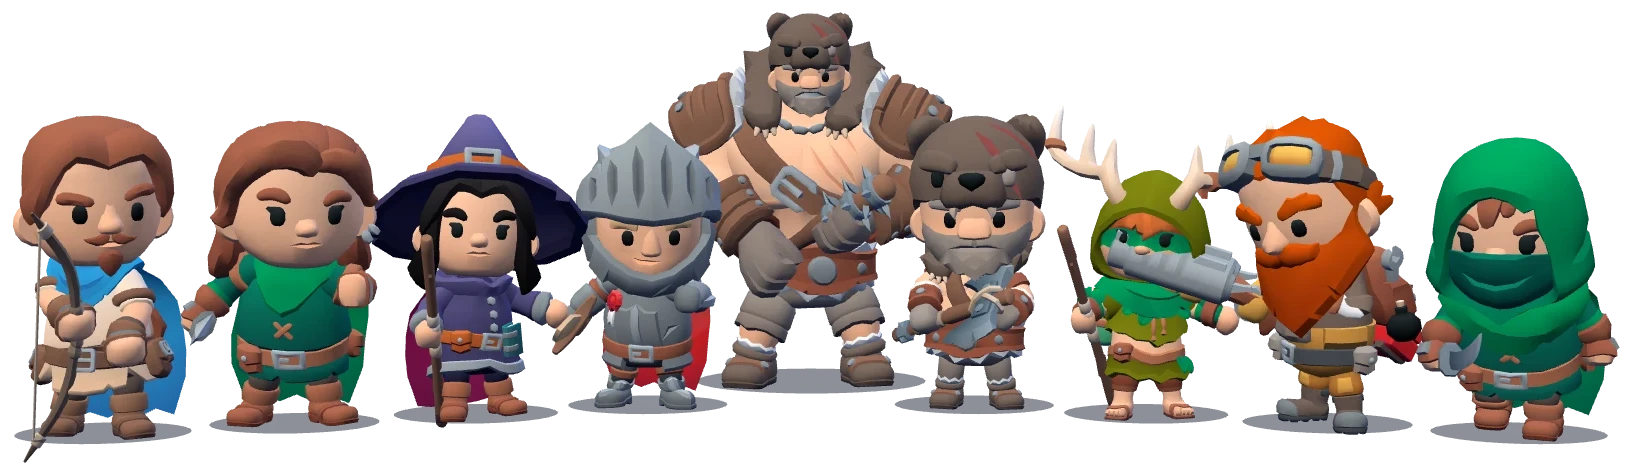
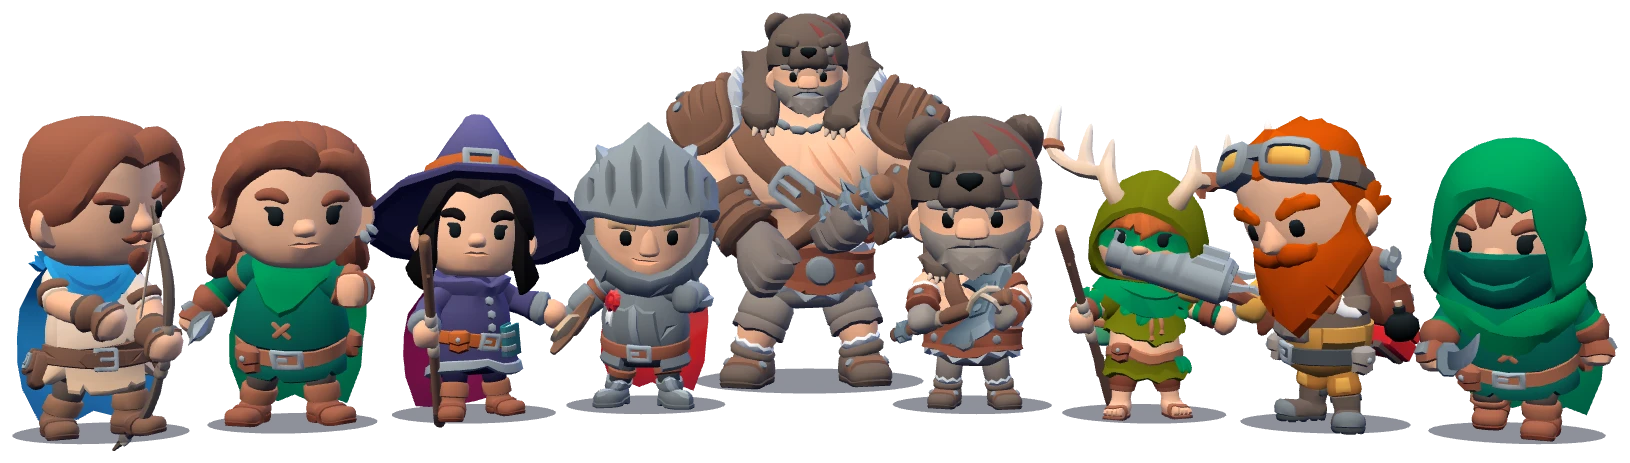
Ranger holds the bow in the left hand
The pack's bow animations (idle, running with a bow, release) hold the bow
in the left hand and draw with the right, but every weapon went in the
right hand slot, so the bow was gripped by the drawing hand and twisted
sideways. Bows (Bow, Longbow) now go in the left hand slot, in the world,
the Heroes screen and the hero choice. The loading-screen lineup is
re-rendered to match (the Ranger turned a little so the bow shows).

diff --git a/src/render/weapons3d.ts b/src/render/weapons3d.ts
@@ -189,6 +189,8 @@ interface KitDef {
   grip?: readonly [number, number, number];
   /** Slide the weapon along its length in the hand (model units): polearms are held up the shaft. */
   slide?: number;
+  /** Held in the left hand (bows: the pack's bow animations hold the bow left and draw right). */
+  left?: boolean;
 }
 const KIT: Record<number, KitDef> = {
   0: { tiers: ['fw_sword_A', 'fw_sword_B', 'w_sword_1handed', 'fw_sword_F'] },               // Sword → flame sword
@@ -197,8 +199,8 @@ const KIT: Record<number, KitDef> = {
   3: { tiers: ['w_sword_2handed', 'fw_sword_E', 'w_sword_2handed_color', 'fw_sword_G'] },     // Greatsword → ice blade
   4: { tiers: ['w_dagger', 'fw_dagger_A', 'fw_dagger_B', 'fw_dagger_C'] },                     // Dagger → poison blade
   5: { tiers: ['w_crossbow_1handed', 'w_crossbow_1handed', 'w_crossbow_2handed', 'w_crossbow_2handed'] },
-  6: { tiers: ['fw_bow_A_withString', 'w_bow_withString', 'fw_bow_B_withString', 'fw_bow_C_withString'] }, // → bone bow
-  7: { tiers: ['w_bow_withString', 'fw_bow_B_withString', 'fw_bow_C_withString', 'fw_bow_C_withString'], scale: 1.15 },
+  6: { tiers: ['fw_bow_A_withString', 'w_bow_withString', 'fw_bow_B_withString', 'fw_bow_C_withString'], left: true }, // → bone bow
+  7: { tiers: ['w_bow_withString', 'fw_bow_B_withString', 'fw_bow_C_withString', 'fw_bow_C_withString'], scale: 1.15, left: true },
   8: { tiers: ['fw_staff_A', 'w_staff', 'fw_staff_B', 'fw_staff_D'] },                         // Staff → sun staff
   9: { tiers: ['w_wand', 'fw_wand_A', 'fw_wand_A', 'fw_wand_B'] },                             // Wand → void orb
   10: { tiers: ['fw_sword_C', 'fw_sword_C', 'fw_sword_D', 'fw_scythe'] },                      // Katana → reaper's scythe
@@ -231,6 +233,9 @@ export function holdWeapon(holder: THREE.Object3D, form: number, tilt: number): 
   const g = KIT[form]?.grip ?? [0, 0, 0];
   holder.rotation.set(g[0], g[1], g[2] + tilt);
 }
+
+/** Is weapon type `form` held in the left hand (bows)? */
+export const heldLeft = (form: number) => !!KIT[form]?.left;
 
 /** Rarity tier (0-3) for the model ladder. */
 export const kitTier = (rarity: number) => (rarity >= 6 ? 3 : rarity >= 4 ? 2 : rarity >= 2 ? 1 : 0);

diff --git a/src/render/world3d.ts b/src/render/world3d.ts
@@ -8,7 +8,7 @@ import { PLAYABLE_ZONES, zoneBoss } from '../sim/zones';
 import { ELITE, MAX_ENEMIES, MAX_HERO_SHOTS, MAX_SHOTS, SLAM_RADIUS, SLAM_WIND, STYLE_DASHER, type Enemy, type Sim } from '../sim/sim';
 import { cloneActor, findClip, loadModel, measure, model } from './models';
 import { Fx3D } from './fx3d';
-import { BOLT_MODEL, arrowModel, buildKitWeapon, holdWeapon, idleTilt, buildWeapon, weaponTrailColor, type WeaponView } from './weapons3d';
+import { BOLT_MODEL, arrowModel, buildKitWeapon, heldLeft, holdWeapon, idleTilt, buildWeapon, weaponTrailColor, type WeaponView } from './weapons3d';
 import { applyLook, applyPalette } from './heroLook';
 import { attackPlayback, heroAnimFiles, heroClip, heroScale, heroWeaponScale, loadHeroAnims, weaponAnims, type HeroAnims, holdsPose } from './heroRig';
 import { lookOf } from '../sim/skins';
@@ -745,7 +745,8 @@ export class World3D {
     if (kit) {
       kit.group.traverse((o) => o.layers.set(HERO_LAYER));
       kit.off?.traverse((o) => o.layers.set(HERO_LAYER));
-      this.kitHand.add(kit.group);
+      // Bows go in the left hand (the bow animations draw the string with the right).
+      (heldLeft(form) ? this.kitOff : this.kitHand).add(kit.group);
       if (kit.off) this.kitOff.add(kit.off);
       this.weapon = kit;
       return;
@@ -878,7 +879,7 @@ export class World3D {
       const attacking = h.swingT > 0 || this.heroCur === this.heroAct.attack;
       const tilt = attacking || h.moving || dead || !set.upright ? 0 : idleTilt(eq?.form ?? 0);
       this.heldTilt += (tilt - this.heldTilt) * (1 - Math.exp(-dt * (attacking ? 30 : 8)));
-      holdWeapon(this.kitHand, eq?.form ?? 0, this.heldTilt);
+      holdWeapon(heldLeft(eq?.form ?? 0) ? this.kitOff : this.kitHand, eq?.form ?? 0, this.heldTilt);
     }
     this.heroDead = dead;
     this.heroSwing = h.swingT;

diff --git a/src/ui/heroes.ts b/src/ui/heroes.ts
@@ -4,7 +4,7 @@ import { cloneActor, loadModel, measure } from '../render/models';
 import { SKINS, lookOf, skinDef } from '../sim/skins';
 import { applyLook, applyPalette, paletteReady } from '../render/heroLook';
 import { heroClip, heroScale, heroWeaponScale, holdsPose, loadHeroAnims, showcaseIdle, showcaseUpright } from '../render/heroRig';
-import { buildKitWeapon, holdWeapon, idleTilt, kitModels } from '../render/weapons3d';
+import { buildKitWeapon, heldLeft, holdWeapon, idleTilt, kitModels } from '../render/weapons3d';
 import { FORMS } from '../sim/weapons';
 import type { Sim } from '../sim/sim';
 import { gi } from './icons';
@@ -423,7 +423,7 @@ export async function buildHeroModel(sim: Sim, id: string, sized = true, palette
     // The stage shows the weapon's idle; one-handed weapons (unarmed idle) are held upright.
     holdWeapon(kit.group, form, showcaseUpright(id, form) ? idleTilt(form) : 0);
     kit.off?.scale.multiplyScalar(heroWeaponScale(id));
-    inner.getObjectByName('handslotr')?.add(kit.group);
+    inner.getObjectByName(heldLeft(form) ? 'handslotl' : 'handslotr')?.add(kit.group);
     if (kit.off) inner.getObjectByName('handslotl')?.add(kit.off);
   }
   const obj = new THREE.Group();

diff --git a/index.html b/index.html
@@ -34,7 +34,7 @@
       #loading.gone { opacity: 0; pointer-events: none; }
       /* The nine heroes in a lineup (a pre-rendered picture, so it shows before any code loads),
          with the title tucked up under their feet. Sizes follow the screen. */
-      .ld-heroes { position: relative; width: min(94vw, 880px, calc(62dvh * 3.44)); aspect-ratio: 1632 / 475; }
+      .ld-heroes { position: relative; width: min(94vw, 880px, calc(62dvh * 3.44)); aspect-ratio: 1630 / 463; }
       .ld-heroes::before { content: ''; position: absolute; inset: -12% -4% -22%; background: radial-gradient(closest-side, #6f8cff50, transparent); pointer-events: none; }
       .ld-heroes img { position: relative; display: block; width: 100%; height: 100%; opacity: 0; transform: translateY(8px); transition: opacity 0.5s ease, transform 0.5s ease; }
       .ld-heroes img.in { opacity: 1; transform: none; }
